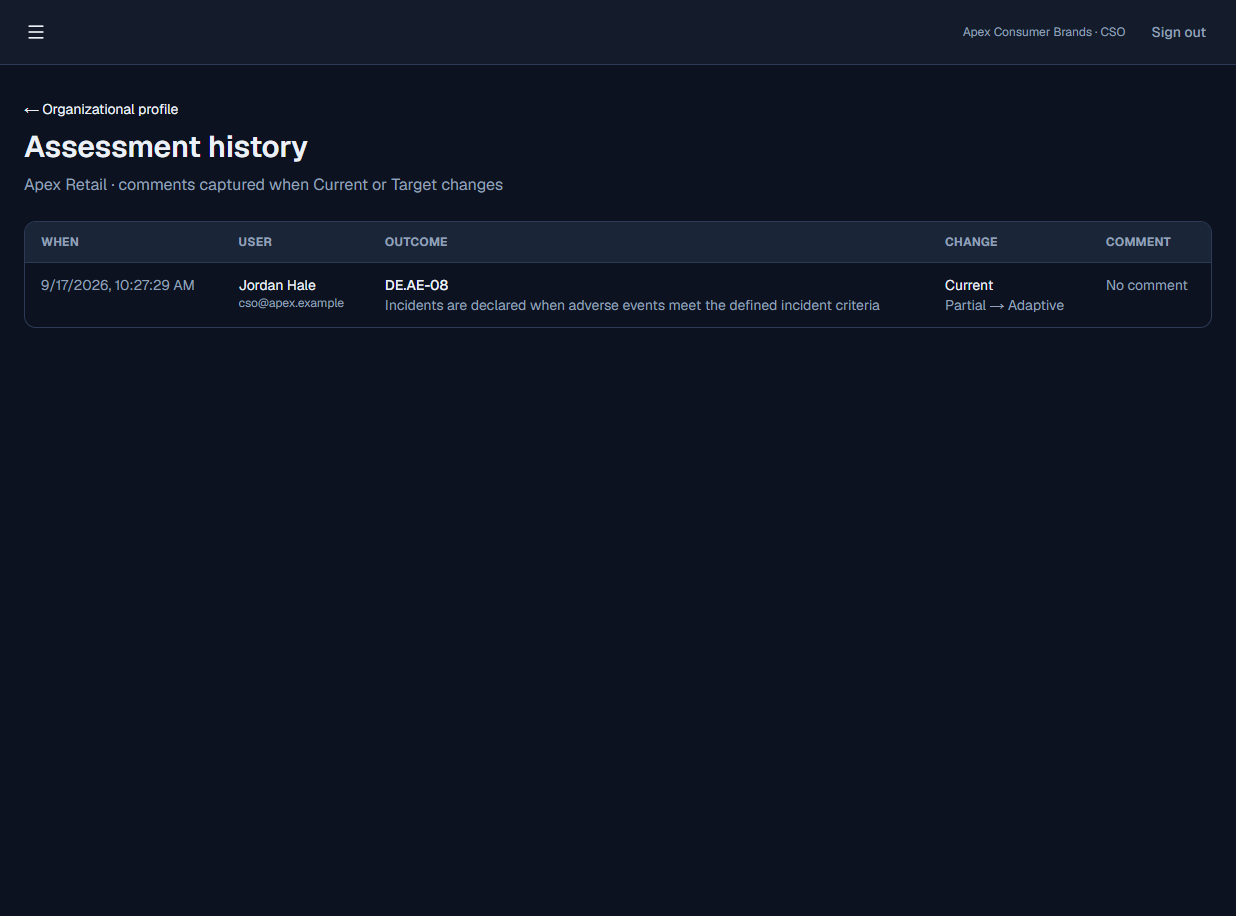
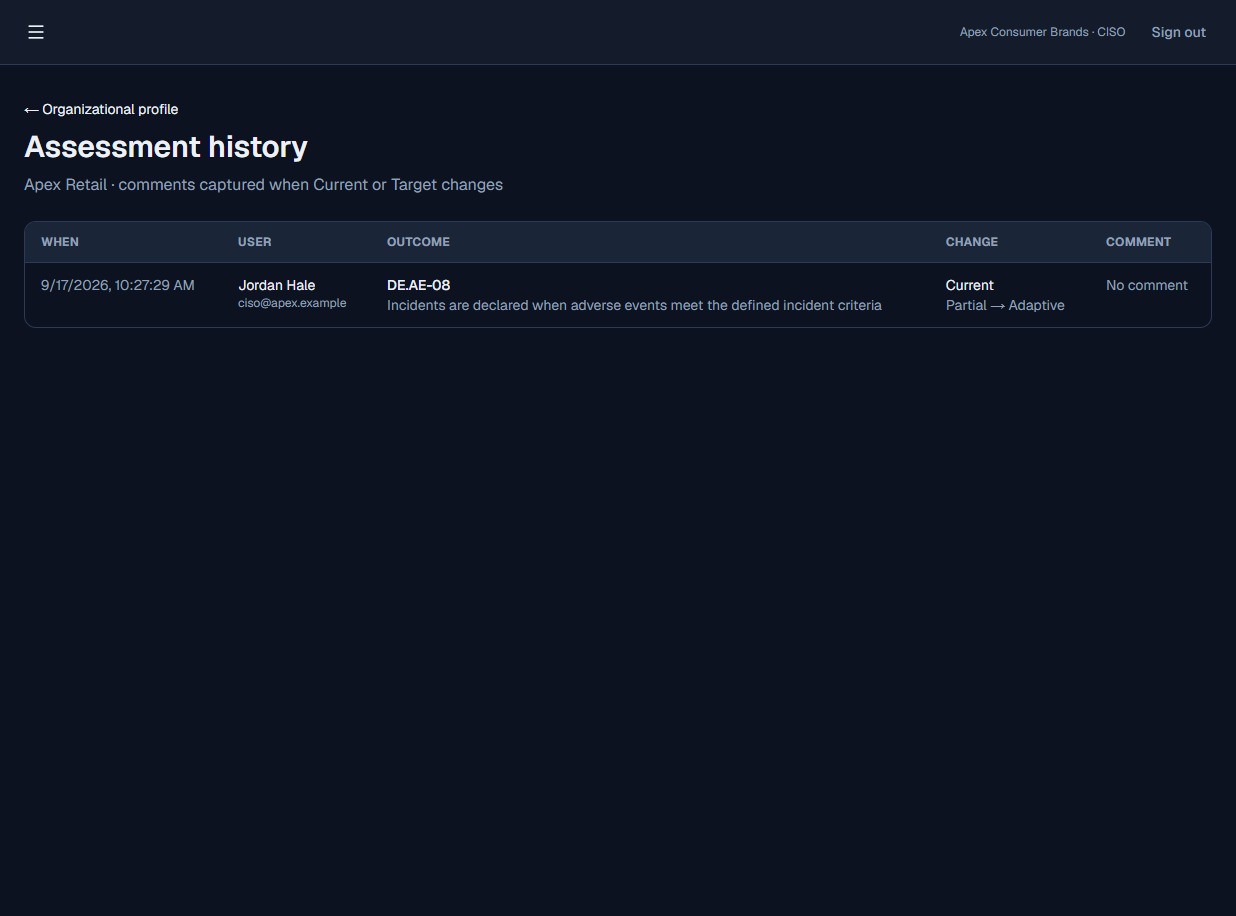
Rename the executive role from CSO to CISO across users, roles, and docs.

diff --git a/src/lib/org-roles.ts b/src/lib/org-roles.ts
@@ -22,7 +22,105 @@ export type RoleActionResult =
   | { ok: true; key: string }
   | { ok: false; error: string };
 
+export async function renameLegacyCsoIdentity(db: Db = prisma) {
+  const legacyUser = await db.user.findUnique({
+    where: { email: "cso@apex.example" },
+    select: { id: true },
+  });
+  const taken = await db.user.findUnique({
+    where: { email: "ciso@apex.example" },
+    select: { id: true },
+  });
+  if (legacyUser && !taken) {
+    await db.user.update({
+      where: { id: legacyUser.id },
+      data: { email: "ciso@apex.example" },
+    });
+  }
+
+  const legacyRoles = await db.organizationRole.findMany({
+    where: { key: "CSO" },
+    select: { id: true, organizationId: true },
+  });
+  for (const role of legacyRoles) {
+    await renameOrganizationRoleKey(role.organizationId, "CSO", "CISO", "CISO", db);
+  }
+}
+
+async function renameOrganizationRoleKey(
+  organizationId: string,
+  fromKey: string,
+  toKey: string,
+  toName: string,
+  db: Db,
+) {
+  const current = await db.organizationRole.findUnique({
+    where: { organizationId_key: { organizationId, key: fromKey } },
+  });
+  if (!current) return;
+
+  const dest = await db.organizationRole.findUnique({
+    where: { organizationId_key: { organizationId, key: toKey } },
+  });
+
+  await db.membership.updateMany({
+    where: { organizationId, role: fromKey },
+    data: { role: toKey },
+  });
+  await db.invite.updateMany({
+    where: { organizationId, role: fromKey },
+    data: { role: toKey },
+  });
+
+  const destPermissions = dest
+    ? await db.rolePermission.findMany({
+        where: { organizationId, role: toKey },
+        select: { area: true },
+      })
+    : [];
+  const destAreas = new Set(destPermissions.map((row) => row.area));
+  const sourcePermissions = await db.rolePermission.findMany({
+    where: { organizationId, role: fromKey },
+  });
+  for (const row of sourcePermissions) {
+    if (destAreas.has(row.area)) {
+      await db.rolePermission.delete({ where: { id: row.id } });
+      continue;
+    }
+    await db.rolePermission.update({
+      where: { id: row.id },
+      data: { role: toKey },
+    });
+  }
+
+  const sourceScope = await db.roleBrandScope.findUnique({
+    where: { organizationId_role: { organizationId, role: fromKey } },
+  });
+  const destScope = await db.roleBrandScope.findUnique({
+    where: { organizationId_role: { organizationId, role: toKey } },
+  });
+  if (sourceScope && !destScope) {
+    await db.roleBrandScope.update({
+      where: { id: sourceScope.id },
+      data: { role: toKey },
+    });
+  } else if (sourceScope && destScope) {
+    await db.roleBrandScope.delete({ where: { id: sourceScope.id } });
+  }
+
+  if (dest) {
+    await db.organizationRole.delete({ where: { id: current.id } });
+    return;
+  }
+
+  await db.organizationRole.update({
+    where: { id: current.id },
+    data: { key: toKey, name: current.name === "CSO" ? toName : current.name },
+  });
+}
+
 export async function ensureOrganizationRoles(organizationId: string, db: Db = prisma) {
+  await renameLegacyCsoIdentity(db);
   const existing = await db.organizationRole.findMany({
     where: { organizationId },
   });

diff --git a/prisma/seed-demo.ts b/prisma/seed-demo.ts
@@ -3,7 +3,7 @@ import type { CsfTier, Priority, PrismaClient } from "@prisma/client";
 import { computeScorecard } from "../src/lib/scoring";
 import { toScoreInputs } from "../src/lib/catalog";
 import { MANAGED_ROLES, PRODUCT_AREAS, defaultPermissionMap } from "../src/lib/rbac";
-import { ensureOrganizationRoles } from "../src/lib/org-roles";
+import { ensureOrganizationRoles, renameLegacyCsoIdentity } from "../src/lib/org-roles";
 
 export const DEMO_PASSWORD = "ChangeMe123!";
 
@@ -69,12 +69,13 @@ function sampleFor(
 
 export async function seedDemoWorkspace(prisma: PrismaClient) {
   const passwordHash = await bcrypt.hash(DEMO_PASSWORD, 10);
+  await renameLegacyCsoIdentity(prisma);
 
-  const cso = await prisma.user.upsert({
-    where: { email: "cso@apex.example" },
+  const ciso = await prisma.user.upsert({
+    where: { email: "ciso@apex.example" },
     update: { name: "Jordan Hale", passwordHash },
     create: {
-      email: "cso@apex.example",
+      email: "ciso@apex.example",
       name: "Jordan Hale",
       passwordHash,
     },
@@ -113,15 +114,15 @@ export async function seedDemoWorkspace(prisma: PrismaClient) {
     prisma.membership.upsert({
       where: {
         userId_organizationId: {
-          userId: cso.id,
+          userId: ciso.id,
           organizationId: organization.id,
         },
       },
-      update: { role: "CSO" },
+      update: { role: "CISO" },
       create: {
-        userId: cso.id,
+        userId: ciso.id,
         organizationId: organization.id,
-        role: "CSO",
+        role: "CISO",
       },
     }),
     prisma.membership.upsert({
@@ -218,7 +219,7 @@ export async function seedDemoWorkspace(prisma: PrismaClient) {
     period: "2026-Q3",
     coverage: "full",
     subcategories,
-    publishedById: cso.id,
+    publishedById: ciso.id,
     evidenceById: analyst.id,
     publish: true,
   });
@@ -229,13 +230,13 @@ export async function seedDemoWorkspace(prisma: PrismaClient) {
     period: "2026-Q3",
     coverage: "partial",
     subcategories,
-    publishedById: cso.id,
+    publishedById: ciso.id,
     evidenceById: analyst.id,
     publish: false,
   });
 
   console.log("Demo workspace: Apex Consumer Brands");
-  console.log("  CSO      cso@apex.example / ChangeMe123!");
+  console.log("  CISO     ciso@apex.example / ChangeMe123!");
   console.log("  Analyst  analyst@apex.example / ChangeMe123!");
   console.log("  Board    board@apex.example / ChangeMe123!");
   console.log(`  Published retail profile ${retailProfile.period}`);

diff --git a/src/lib/rbac.ts b/src/lib/rbac.ts
@@ -3,7 +3,8 @@ export const OWNER_ROLE_KEY = "ORG_OWNER";
 export const ROLE_LABEL: Record<string, string> = {
   PLATFORM_ADMIN: "Platform admin",
   ORG_OWNER: "Organization owner",
-  CSO: "CSO",
+  CISO: "CISO",
+  CSO: "CISO",
   ASSESSOR: "Assessor",
   CONTROL_OWNER: "Control owner",
   AUDITOR: "Auditor",
@@ -12,7 +13,7 @@ export const ROLE_LABEL: Record<string, string> = {
 
 export const SYSTEM_ROLES = [
   { key: "ORG_OWNER", name: "Organization owner", locked: true, sortOrder: 0 },
-  { key: "CSO", name: "CSO", locked: false, sortOrder: 1 },
+  { key: "CISO", name: "CISO", locked: false, sortOrder: 1 },
   { key: "ASSESSOR", name: "Assessor", locked: false, sortOrder: 2 },
   { key: "CONTROL_OWNER", name: "Control owner", locked: false, sortOrder: 3 },
   { key: "AUDITOR", name: "Auditor", locked: false, sortOrder: 4 },
@@ -119,6 +120,7 @@ function mapWith(
 export const DEFAULT_ROLE_PERMISSIONS: Record<string, PermissionMap> = {
   PLATFORM_ADMIN: mapWith({}, full),
   ORG_OWNER: mapWith({}, full),
+  CISO: mapWith({}, full),
   CSO: mapWith({}, full),
   ASSESSOR: mapWith({
     PROGRAM: viewOnly,
@@ -178,7 +180,8 @@ export function accessFromMode(mode: AccessMode): AreaAccess {
 }
 
 export function defaultPermissionMap(role: string): PermissionMap {
-  const source = DEFAULT_ROLE_PERMISSIONS[role] ?? emptyPermissionMap();
+  const resolved = role === "CSO" ? "CISO" : role;
+  const source = DEFAULT_ROLE_PERMISSIONS[resolved] ?? emptyPermissionMap();
   return {
     PROGRAM: normalizeAccess(source.PROGRAM),
     ASSESSMENT: normalizeAccess(source.ASSESSMENT),
@@ -195,7 +198,7 @@ export function defaultPermissionMatrix(): RolePermissionMatrix {
   return {
     PLATFORM_ADMIN: defaultPermissionMap("PLATFORM_ADMIN"),
     ORG_OWNER: defaultPermissionMap("ORG_OWNER"),
-    CSO: defaultPermissionMap("CSO"),
+    CISO: defaultPermissionMap("CISO"),
     ASSESSOR: defaultPermissionMap("ASSESSOR"),
     CONTROL_OWNER: defaultPermissionMap("CONTROL_OWNER"),
     AUDITOR: defaultPermissionMap("AUDITOR"),

diff --git a/src/app/page.tsx b/src/app/page.tsx
@@ -19,7 +19,7 @@ export default async function HomePage() {
           NIST Cybersecurity Framework 2.0
         </p>
         <h1 className="mt-4 max-w-3xl text-5xl font-semibold leading-tight">
-          Score a brand against NIST CSF, then report it to the CSO and the board.
+          Score a brand against NIST CSF, then report it to the CISO and the board.
         </h1>
         <p className="mt-6 max-w-2xl text-lg text-[var(--muted)]">
           Operators assess Current vs Target profiles across Govern, Identify, Protect,
@@ -37,7 +37,7 @@ export default async function HomePage() {
         <div className="mt-16 grid gap-4 md:grid-cols-3">
           {[
             ["Operators", "Work subcategory by subcategory with evidence, tiers, and gap notes."],
-            ["CSO", "Watch function heatmaps, coverage, and the largest control gaps."],
+            ["CISO", "Watch function heatmaps, coverage, and the largest control gaps."],
             ["Board", "Read published snapshots that stay frozen after operators keep scoring."],
           ].map(([title, body]) => (
             <div key={title} className="rounded-xl border border-[var(--border)] bg-[var(--surface)] p-5">

diff --git a/src/components/role-permissions-form.tsx b/src/components/role-permissions-form.tsx
@@ -40,7 +40,11 @@ export function RolePermissionsForm({
   );
   const [matrix, setMatrix] = useState(initialMatrix);
   const [brandScopes, setBrandScopes] = useState(initialBrandScopes);
-  const fallbackRole = roleKeys.includes("CSO") ? "CSO" : (roleKeys[0] ?? "ORG_OWNER");
+  const fallbackRole = roleKeys.includes("CISO")
+    ? "CISO"
+    : roleKeys.includes("CSO")
+      ? "CSO"
+      : (roleKeys[0] ?? "ORG_OWNER");
   const [selectedRole, setSelectedRole] = useState(
     initialSelectedRole && roleByKey[initialSelectedRole] ? initialSelectedRole : fallbackRole,
   );

diff --git a/src/app/login/page.tsx b/src/app/login/page.tsx
@@ -22,7 +22,7 @@ export default async function LoginPage({
       <AuthForm mode="login" />
       <div className="mt-8 rounded-md border border-[var(--border)] bg-[var(--surface)] p-4 text-xs text-[var(--muted)]">
         <div className="mb-1 font-medium text-[var(--foreground)]">Demo accounts</div>
-        <p>CSO: cso@apex.example</p>
+        <p>CISO: ciso@apex.example</p>
         <p>Analyst: analyst@apex.example</p>
         <p>Board viewer: board@apex.example</p>
         <p className="mt-1">Password for all: ChangeMe123!</p>

diff --git a/src/app/signup/page.tsx b/src/app/signup/page.tsx
@@ -5,7 +5,7 @@ export default function SignupPage() {
     <div className="mx-auto flex min-h-screen max-w-md flex-col justify-center px-6">
       <h1 className="text-2xl font-semibold">Create an account</h1>
       <p className="mt-2 mb-8 text-sm text-[var(--muted)]">
-        Start an organization, then invite your CSO, assessors, and board viewers.
+        Start an organization, then invite your CISO, assessors, and board viewers.
       </p>
       <AuthForm mode="signup" />
     </div>

diff --git a/src/app/app/brands/[brandId]/page.tsx b/src/app/app/brands/[brandId]/page.tsx
@@ -60,7 +60,7 @@ export default async function BrandDashboardPage({
       <div>
         <h1 className="text-3xl font-semibold">{brand.name}</h1>
         <p className="mt-2 max-w-2xl text-[var(--muted)]">
-          Live CSO view of NIST CSF 2.0 Current vs Target. Scores update whenever the
+          Live CISO view of NIST CSF 2.0 Current vs Target. Scores update whenever the
           organizational profile assessment changes.
         </p>
       </div>

diff --git a/src/app/app/page.tsx b/src/app/app/page.tsx
@@ -36,7 +36,7 @@ export default async function AppHomePage() {
       <div>
         <h1 className="text-3xl font-semibold">Cybersecurity program</h1>
         <p className="mt-2 text-[var(--muted)]">
-          Brands roll up Current vs Target NIST CSF 2.0 profiles for CSO and board reporting.
+          Brands roll up Current vs Target NIST CSF 2.0 profiles for CISO and board reporting.
         </p>
       </div>
 

diff --git a/src/app/app/brands/[brandId]/reports/page.tsx b/src/app/app/brands/[brandId]/reports/page.tsx
@@ -73,7 +73,7 @@ export default async function BrandReportsPage({
                 .
               </>
             ) : (
-              " A CSO or owner can publish one from this brand."
+              " A CISO or owner can publish one from this brand."
             )}
           </p>
         </Card>

diff --git a/README.md b/README.md
@@ -2,7 +2,7 @@
 
 A multi-tenant NIST CSF 2.0 workspace for assessing brands, tracking Current vs Target posture, attaching evidence, managing software inventory, and publishing frozen board scorecards.
 
-Security Plan Manager is built for CSOs, assessors, control owners, auditors, and board viewers who need a shared organizational profile rather than a static spreadsheet.
+Security Plan Manager is built for CISOs, assessors, control owners, auditors, and board viewers who need a shared organizational profile rather than a static spreadsheet.
 
 ## Features
 
@@ -93,7 +93,7 @@ npm run cve:sync
 
 | Role | Email | Password |
 | --- | --- | --- |
-| CSO | `cso@apex.example` | `ChangeMe123!` |
+| CISO | `ciso@apex.example` | `ChangeMe123!` |
 | Assessor | `analyst@apex.example` | `ChangeMe123!` |
 | Board viewer | `board@apex.example` | `ChangeMe123!` |
 
@@ -117,7 +117,7 @@ Brand list with Current, Target, and coverage, plus creating another brand.
 
 ### Brand dashboard
 
-Live CSO view of NIST CSF 2.0 functions, highest brand risks, and software/CVE insights.
+Live CISO view of NIST CSF 2.0 functions, highest brand risks, and software/CVE insights.
 
 ![Apex Retail brand dashboard](docs/screenshots/03-brand-dashboard.png)
 
